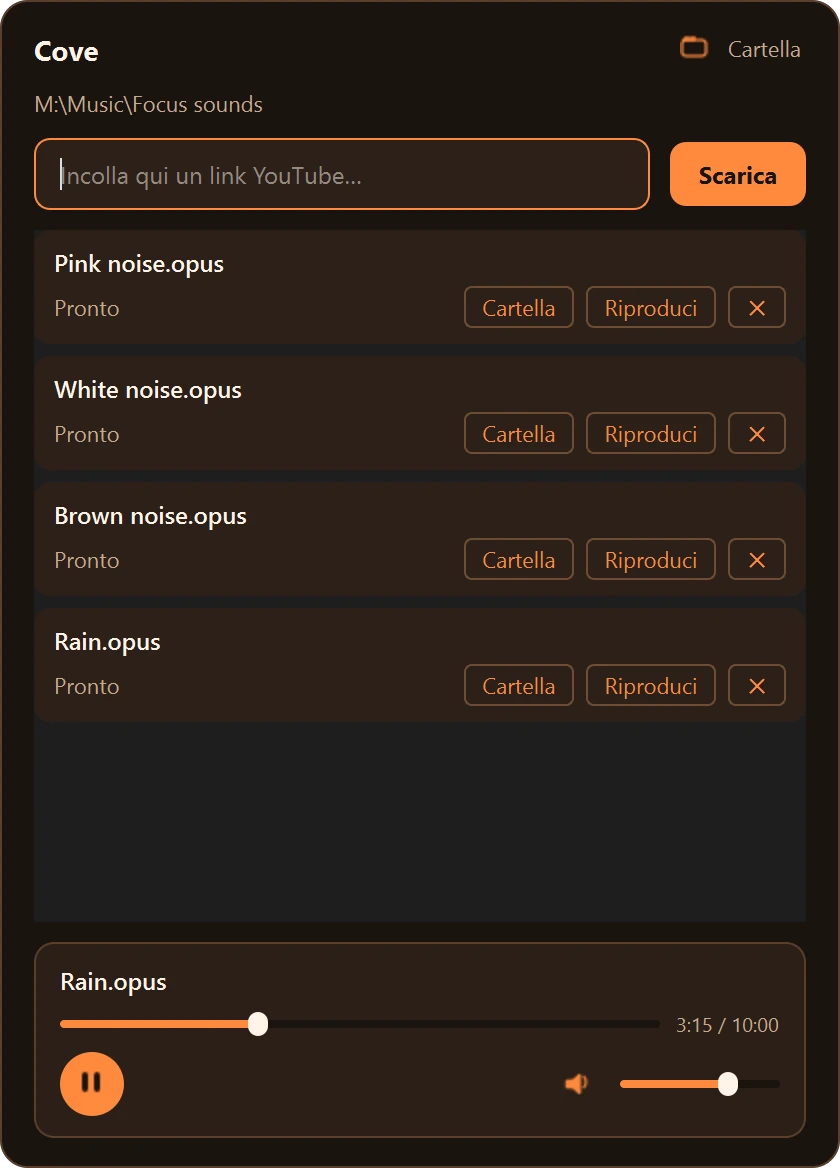
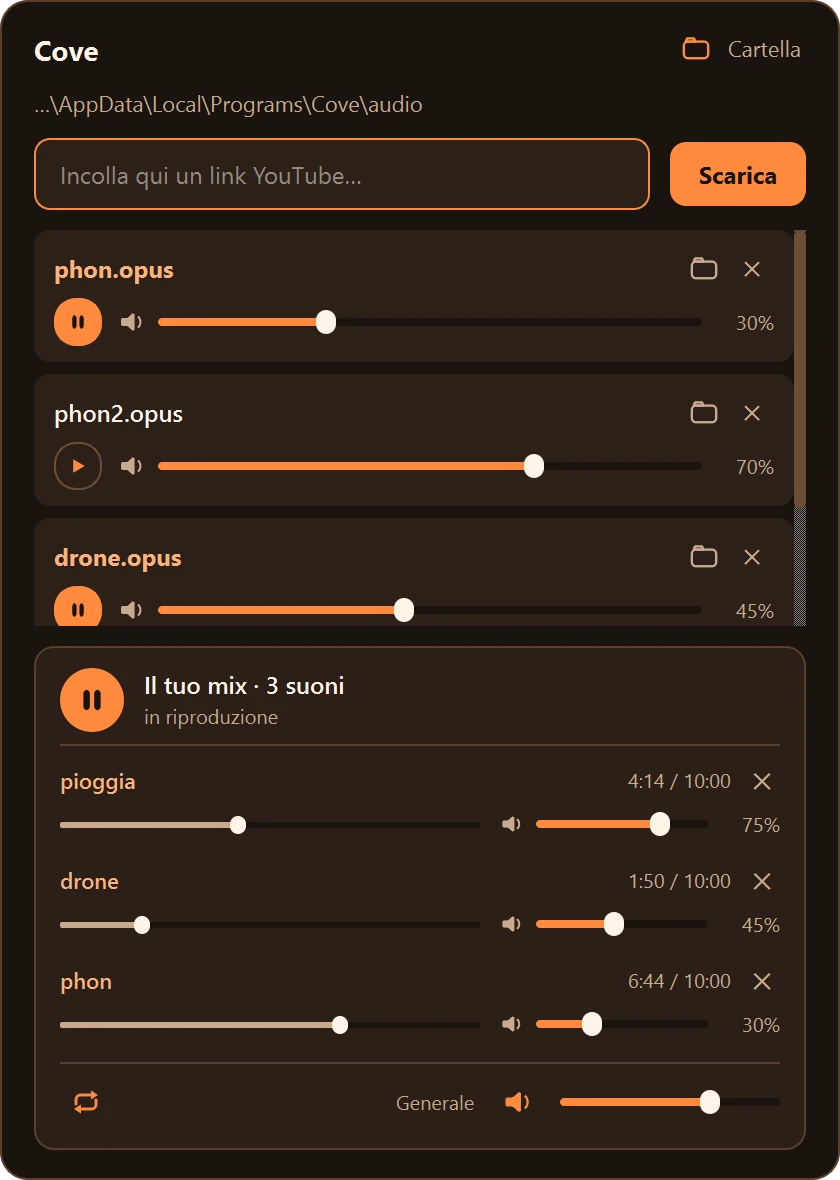
Cove's screenshot shows the mix
The screenshot is drawn again with Cove 0.3.1: the library of built-in
sounds and, at the bottom, a mix of rain, drone and white noise playing,
each with its progress and volume. It was taken on a clone with only the
built-in sounds, silent, and with the folder of a normal installation.

diff --git a/src/data/projects.ts b/src/data/projects.ts
@@ -672,10 +672,10 @@ export const projects: Project[] = [
     shots: [
       {
         src: covePanel,
-        caption: { en: 'The panel', it: 'Il pannello' },
+        caption: { en: 'The panel and the mix', it: 'Il pannello e il mix' },
         alt: {
-          en: "Cove's panel with the four built-in sounds and the mini player playing one of them",
-          it: 'Il pannello di Cove con i quattro suoni inclusi e il mini player che ne riproduce uno',
+          en: "Cove's panel: the library of built-in sounds and, at the bottom, a mix of three sounds playing, rain, drone and white noise, each with its progress and volume",
+          it: 'Il pannello di Cove: la libreria dei suoni inclusi e, in basso, un mix di tre suoni in riproduzione, pioggia, drone e rumore bianco, ognuno con avanzamento e volume',
         },
       },
     ],
